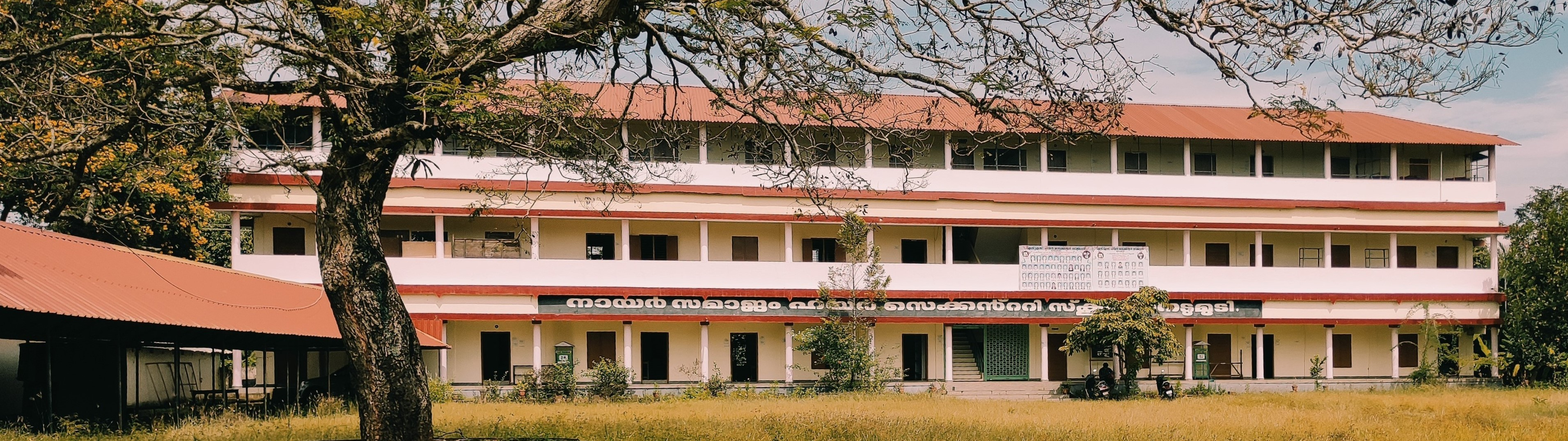
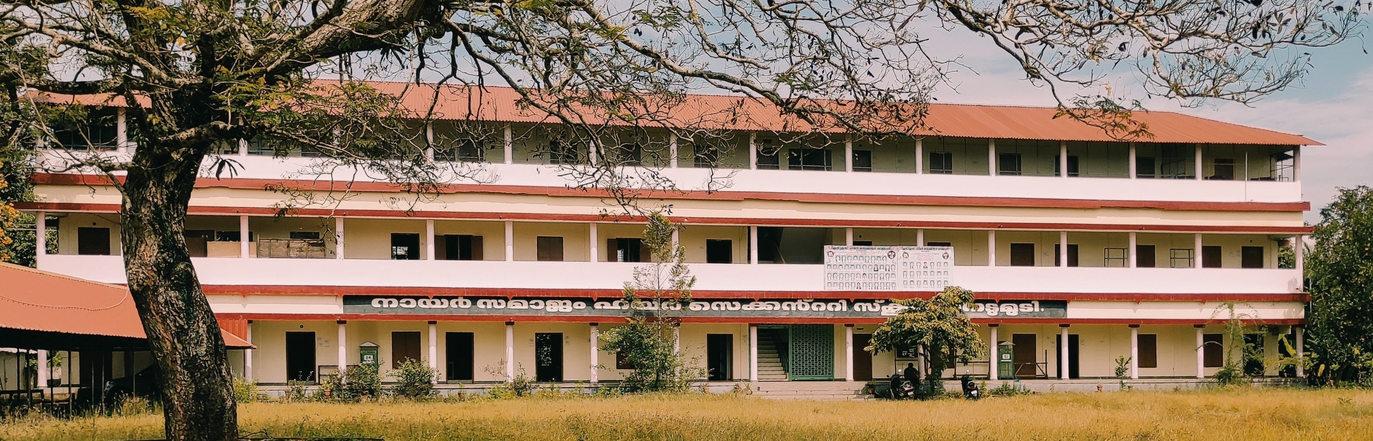
added carosol,admision etc

diff --git a/index.html b/index.html
@@ -20,7 +20,7 @@
               <div class="half">
                 <ul class="navbar-nav ">
                   <li class="nav-item ">
-                    <a class="nav-link active" aria-current="page" href="#about">Home</a>
+                    <a class="nav-link active" aria-current="page" href="#about">About</a>
                   </li>
                   <li class="nav-item ">
                     <a class="nav-link" href="#course">Course</a>
@@ -32,6 +32,9 @@
                     <a class="nav-link" href="#anual">Annual Report</a>
                   </li>
                   <li class="nav-item">
+                    <a class="nav-link" href="#...">Clubs</a>
+                  </li>
+                  <li class="nav-item">
                     <a class="nav-link" href="#con">Contact</a>
                   </li>
                 </ul>
@@ -39,10 +42,28 @@
           </div>
         </div>
       </nav>
-      <div style="position: relative;">
-        <img src="asset/IMG_20210804_101324.jpg" class="img-fluid"> 
-        <p class="helom">Nair Samajam HSS,Nedumudy</p>
-    </div>
+      <div id="carouselExampleAutoplaying " class="carousel slide" data-bs-ride="carousel">
+        <div class="carousel-inner">
+          <div class="carousel-item active">
+            <img src="asset/nshss 1.jpg" class="d-block w-100" alt="...">
+          </div>
+          <div class="carousel-item">
+            <img src="asset/IMG_20210804_101324.jpg" class="d-block w-100" alt="...">
+          </div>
+          <div class="carousel-item">
+            <img src="asset/nshss 3.jpg" class="d-block w-100" alt="...">
+          </div>
+        </div>
+        <button class="carousel-control-prev" type="button" data-bs-target="#carouselExampleAutoplaying" data-bs-slide="prev">
+          <span class="carousel-control-prev-icon" aria-hidden="true"></span>
+          <span class="visually-hidden">Previous</span>
+        </button>
+        <button class="carousel-control-next" type="button" data-bs-target="#carouselExampleAutoplaying" data-bs-slide="next">
+          <span class="carousel-control-next-icon" aria-hidden="true"></span>
+          <span class="visually-hidden">Next</span>
+        </button>
+      </div>
+  
       <div class="content">    
       <div class="subbox" id="about">
         <h1>About</h1>
@@ -68,7 +89,7 @@
         <div class="row md-4">
         <h1>Course</h1>
         <!-- <h3>Computer Science</h3> -->
-        <div class="card col-md-2 m-3" style="width: 18rem;">
+        <div class="card col-md-2 m-3 " style="width: 18rem;">
           <img src="asset/cybersecurity-computer-science.webp" class="card-img-top">
           <div class="card-body">
             <h5 class="card-title">Computer Science</h5>
@@ -105,7 +126,9 @@
     </div>
     <div class="subbox" id="Addmission">
       <h1>Addmission</h1>
-      <p>Addmission started for 2023-2024 academic year. For more details contact the office directly or contact to the number given below</p>
+      <div class="alert alert-success" role="alert">
+        Addmission started for 2023-2024 academic year. For more details contact the office directly or contact to the number given <a href="#con">below </a>  
+      </div>
 
     </div>
 
@@ -115,9 +138,7 @@
         <li><a class="report" href=""><h4>2022-2023</h4></a></li>
         <li><a class="report" href=""><h4>2021-2022</h4></a></li>
       </ul>      
-      
-      
-    </div>
+    </div>   
       <div class="contact">
         <div class="container text-center contact">
           <div class="row align-items-start">
@@ -150,7 +171,7 @@
           </div>
             <div class="pow">
               <div class="pow">
-                <h5>Designed & Developed by Abhishek V Gopal</h5>
+                <h5>Developed by Abhishek V Gopal</h5>
                 <p>An alumini of Nshss,Nedumudy</p>
               </div>
             </div> 
